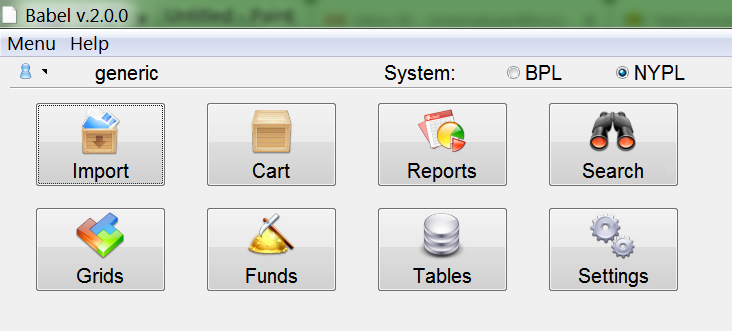
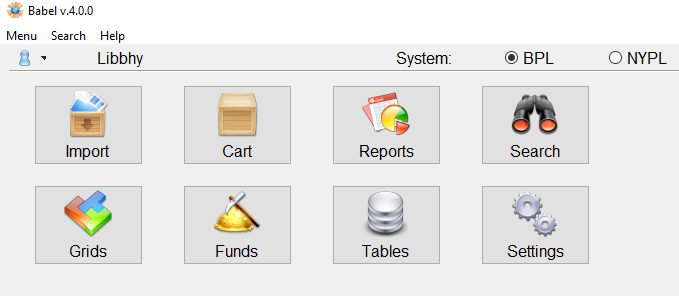
Wiki update (#176)
* main menu screenshot for 4.0.0

* removes commented out import of get_from_vault()

* dup & profile screenshots

* extra screenshots for dups & tables

diff --git a/babel/babel.py b/babel/babel.py
@@ -10,8 +10,6 @@ import keyring
 from keyring.backends.Windows import WinVaultKeyring
 
 
-# from credentials import get_from_vault
-
 from installer import is_configured, Installer
 from logging_settings import DEV_LOGGING, PROD_LOGGING
 
